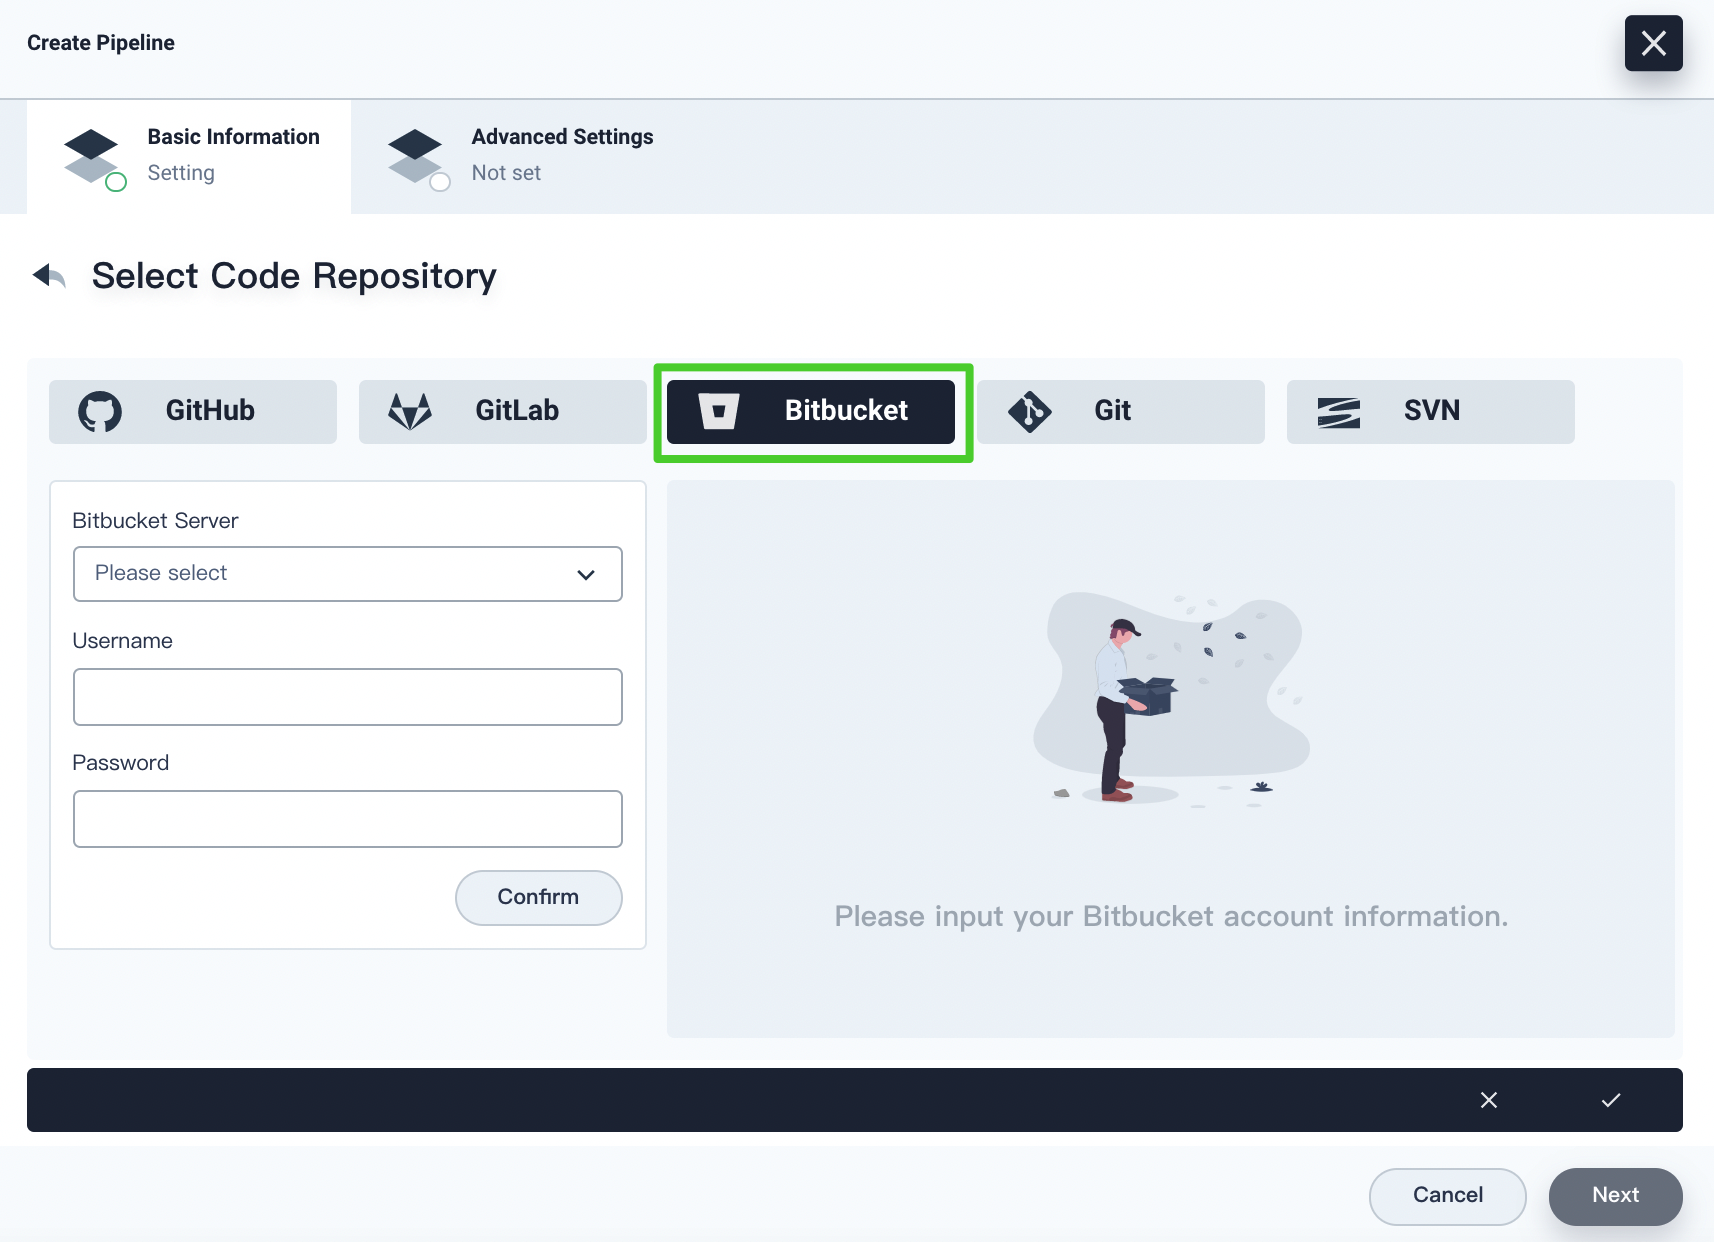
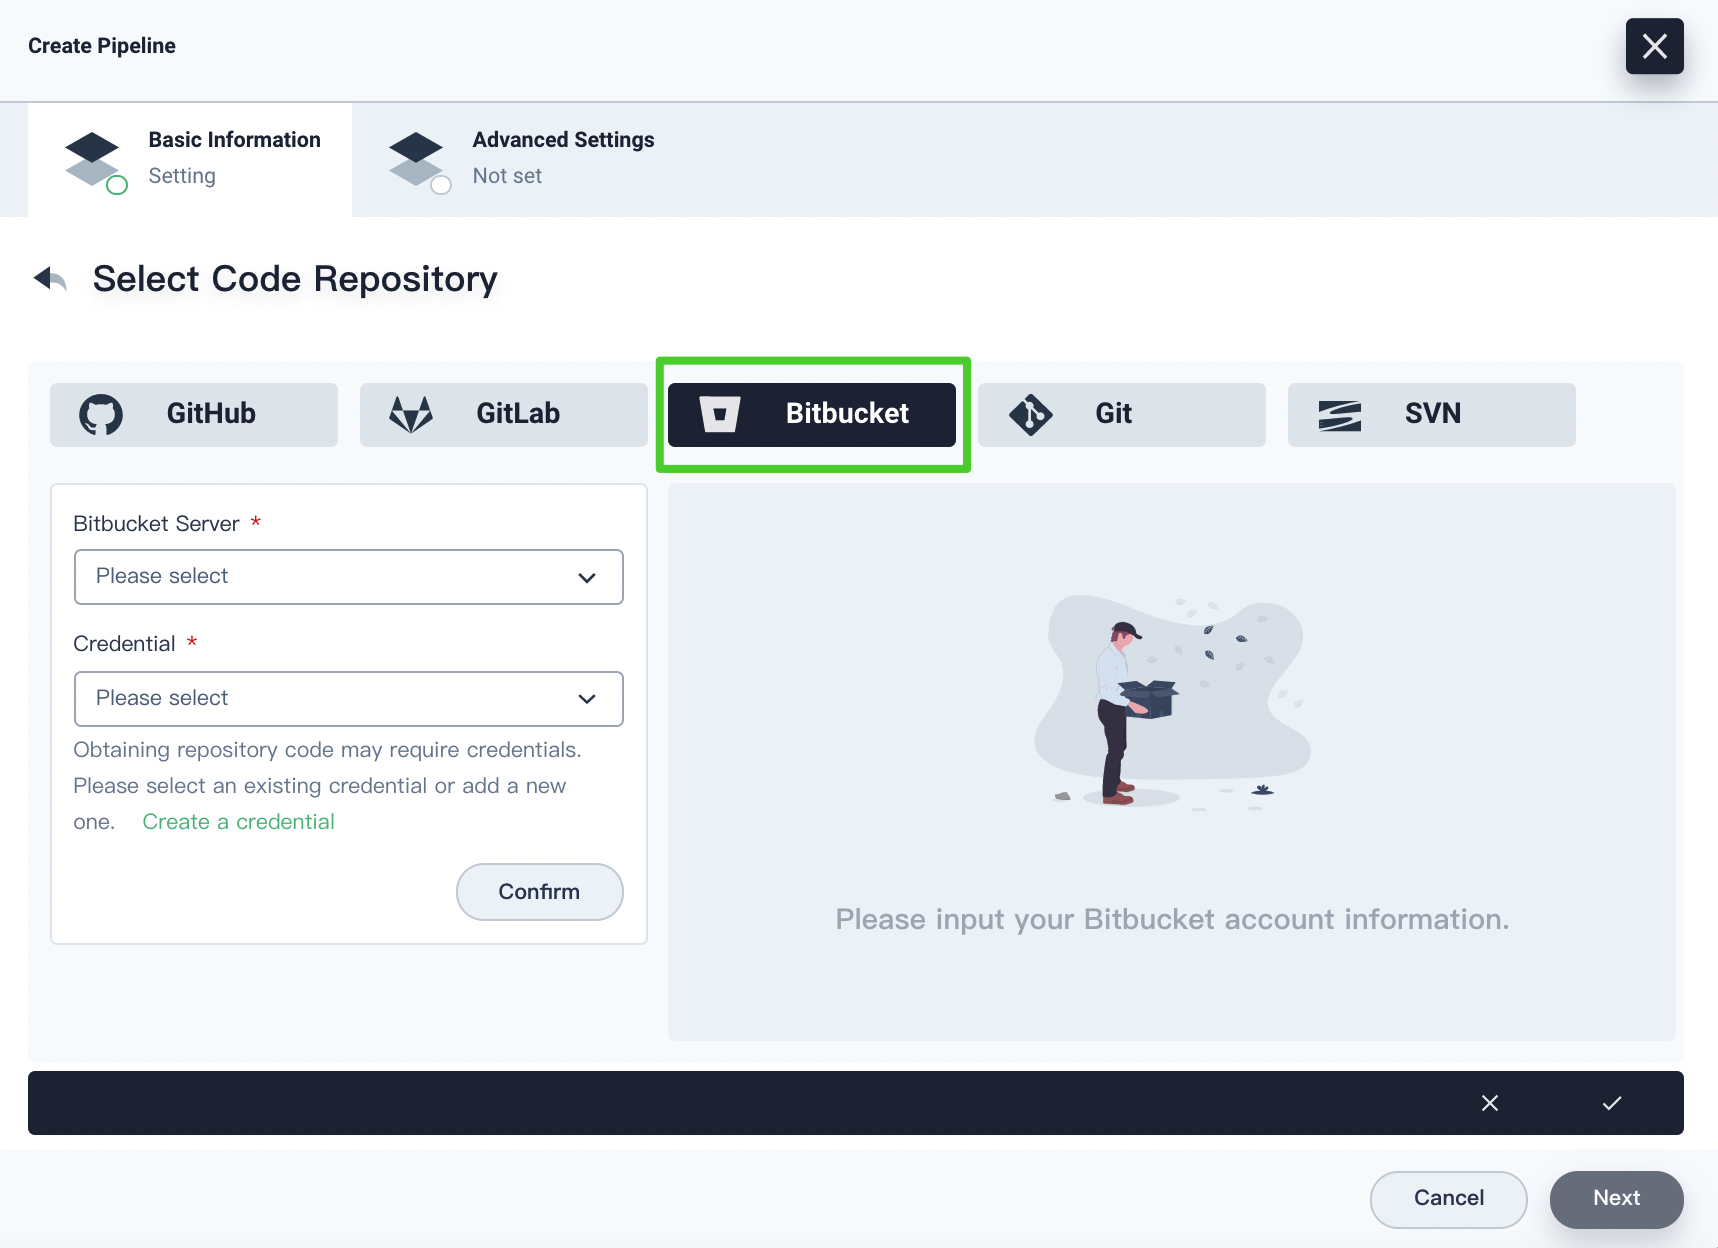
Update Doc: Pipeline Settings in v3.1

diff --git a/content/en/docs/devops-user-guide/how-to-use/pipeline-settings.md b/content/en/docs/devops-user-guide/how-to-use/pipeline-settings.md
@@ -51,7 +51,7 @@ On the **Basic Information** tab, you can customize the following information:
 
   ![code-source-bitbucket](/images/docs/devops-user-guide/using-devops/pipeline-settings/code-source-bitbucket.png)
 
-  If you select **Bitbucket**, you have to specify the Bitbucket server, username, and password. Click **Confirm** after entering the information. Click the **√** icon after you finish all operations.
+  If you select **Bitbucket**, you have to enter your Bitbucket server. You can create a credential with your Bitbucket username and password in advance and then select the credential from the drop-down list, or you can click **Create a credential** to create a new one. Click **Confirm** after entering the information and you can view your repository on the right. Click the **√** icon after you finish all operations.
 
   {{</ tab >}}
 
